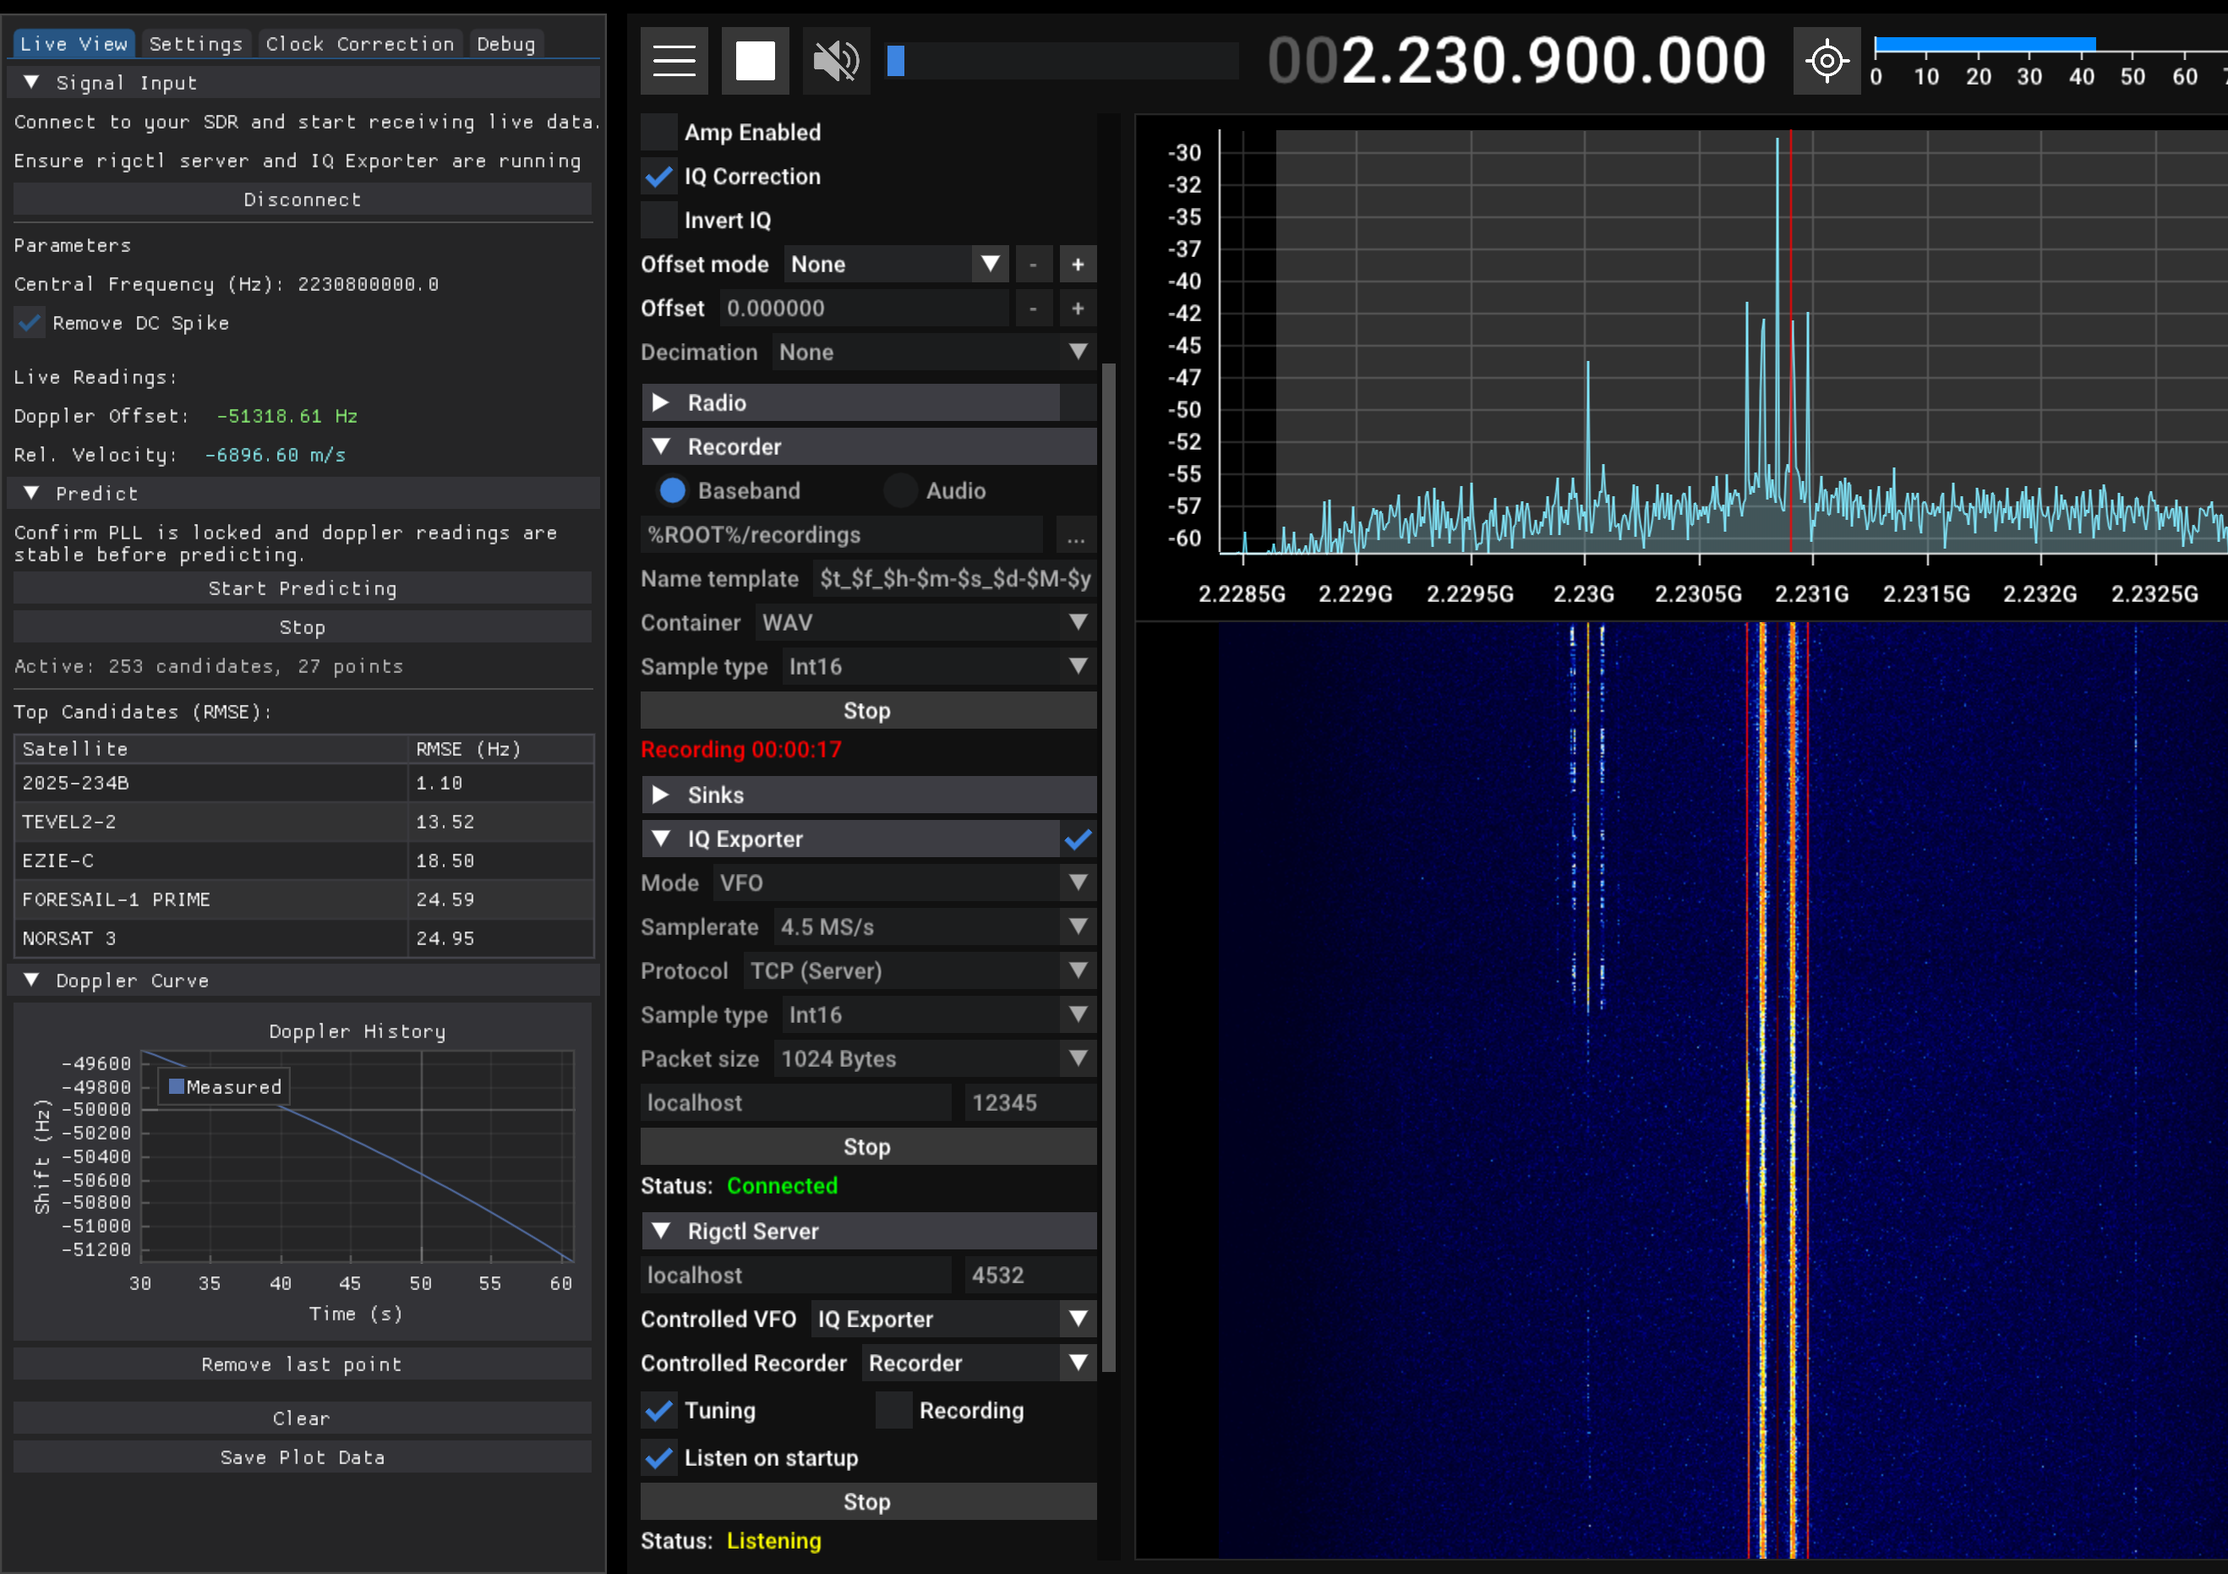
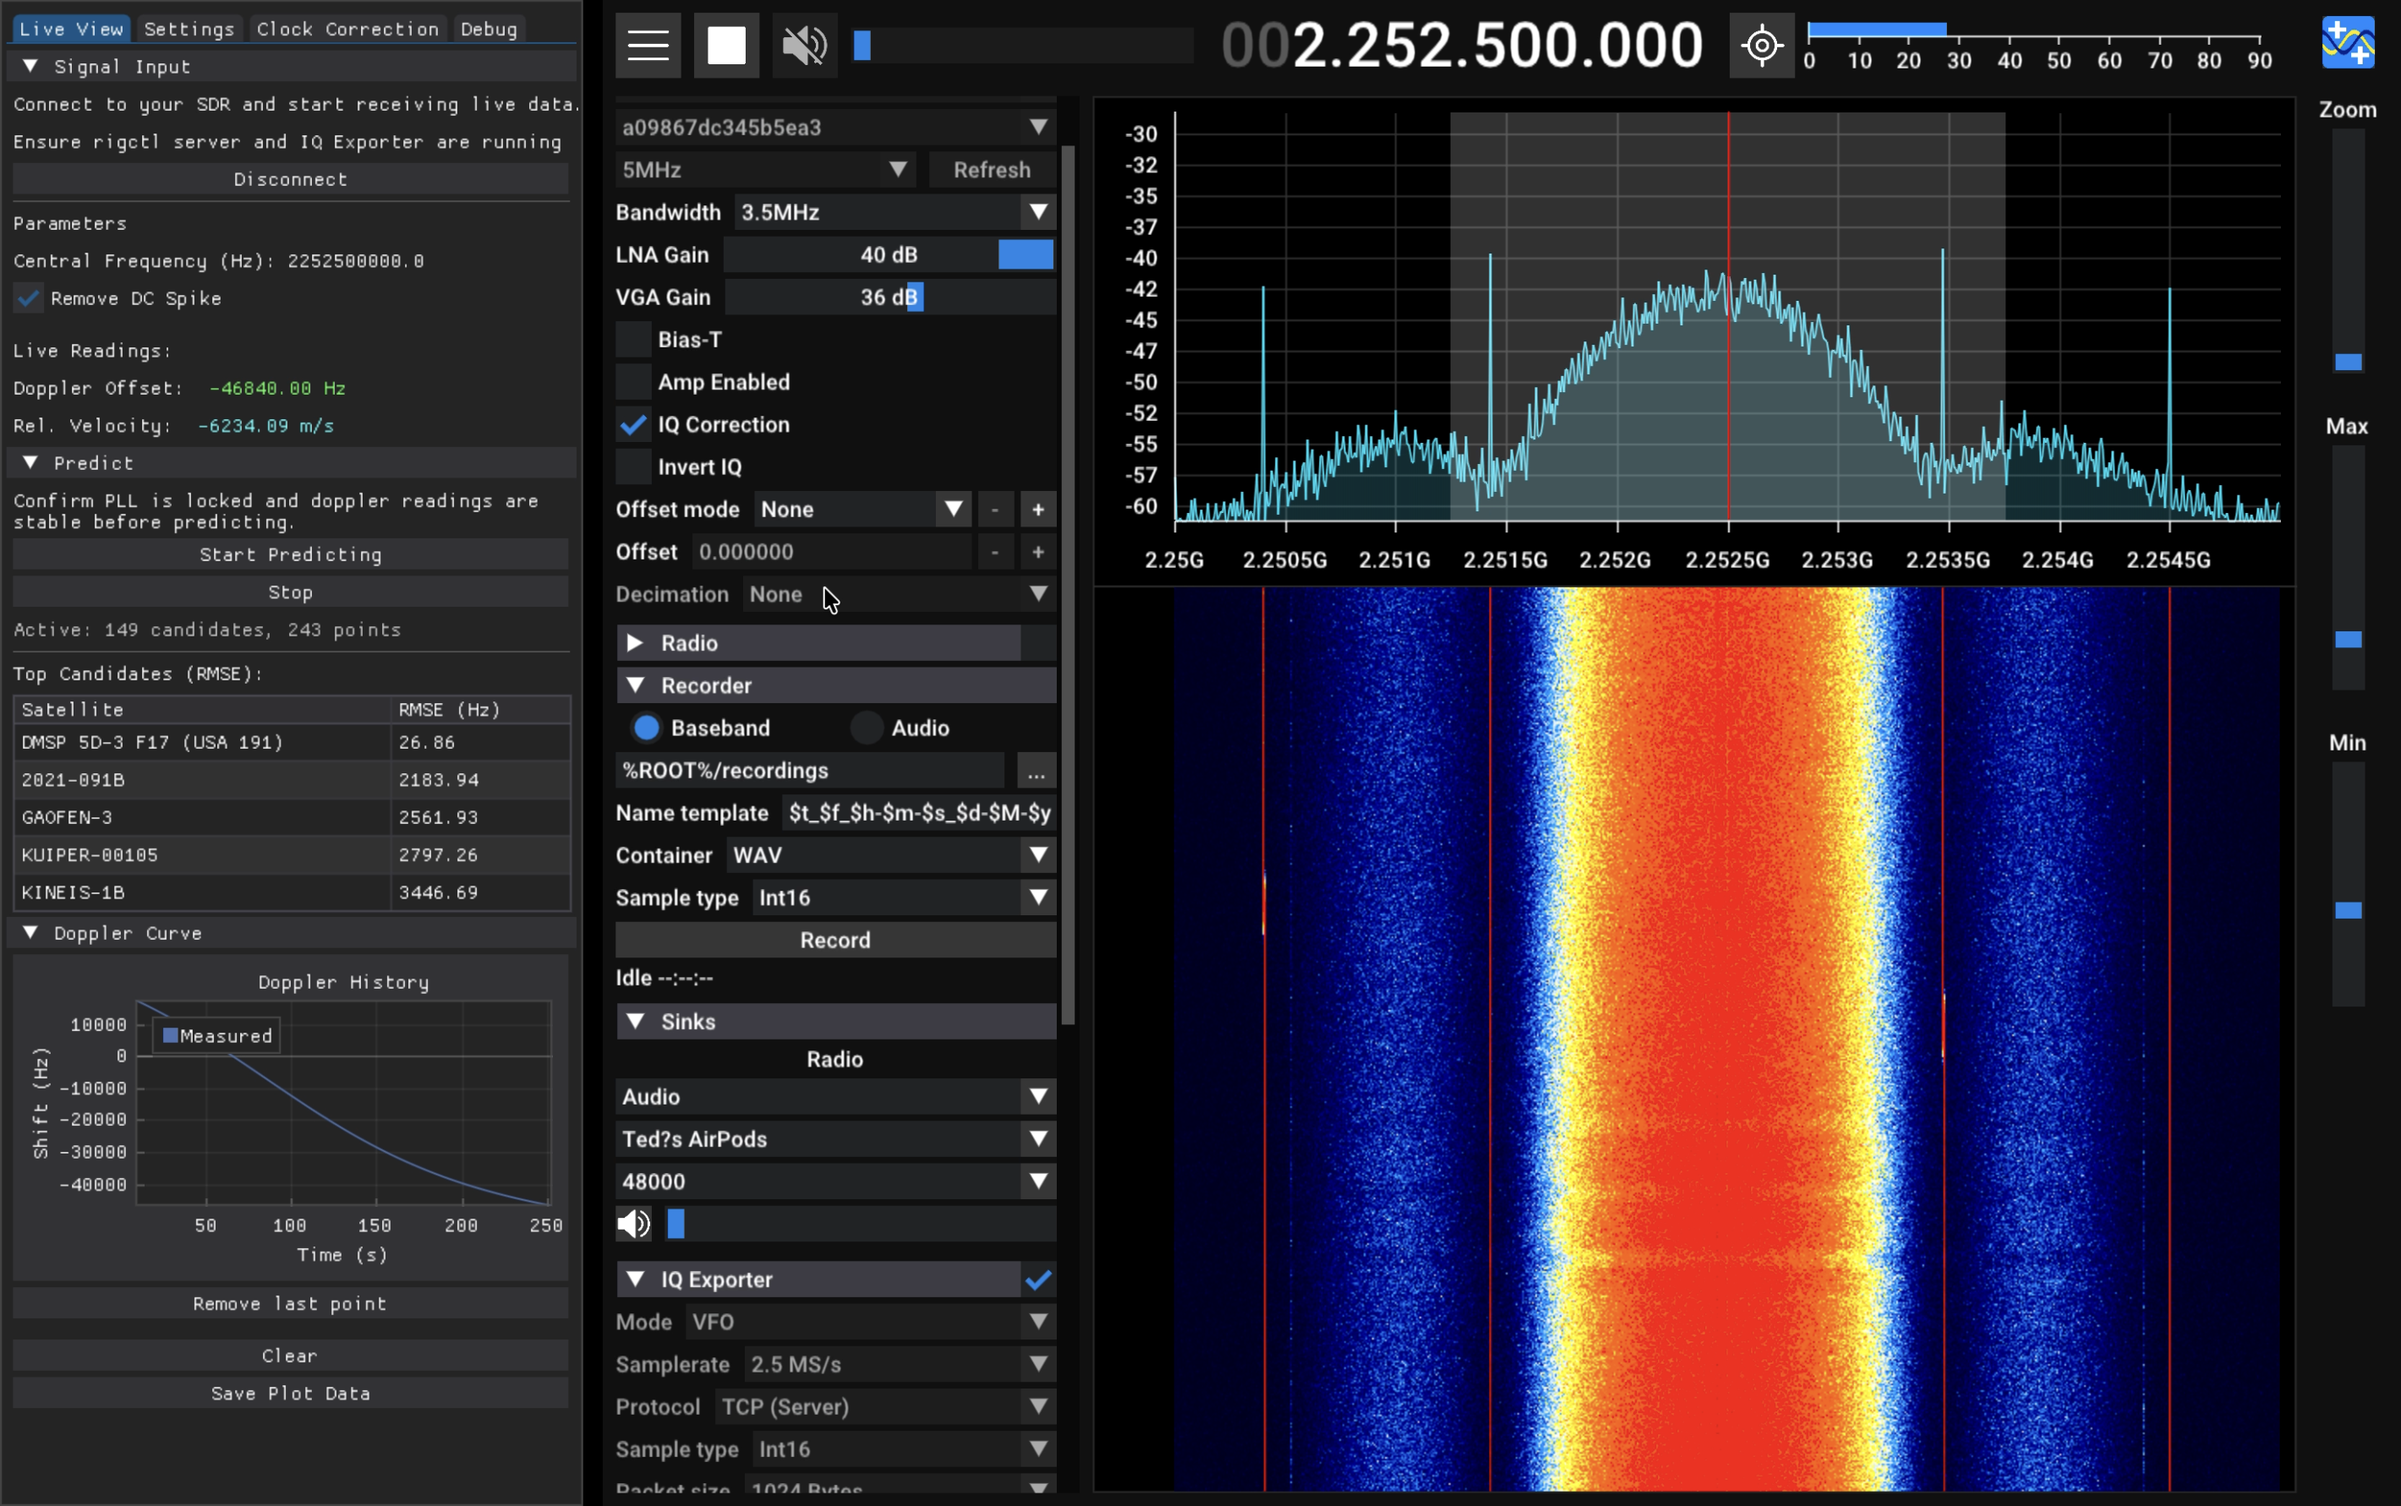
readme almost done

diff --git a/README.md b/README.md
@@ -5,6 +5,23 @@ It is designed to work in conjunction with [SDR++](https://github.com/AlexandreR
 > Note: If you are using MacOS, the IQ exporter module vital for this application to work is missing from the official builds. Build from source or download SDR++ from my [fork](https://github.com/BUSH222/SDRPlusPlus) instead.
 
 ## Table of Contents
+- [Installation](#installation)
+  - [Prerequisites](#prerequisites)
+  - [Installation](#installation-1)
+  - [Initial Configuration](#initial-configuration)
+  - [SDR++ Configuration](#sdr-configuration)
+- [Usage](#usage)
+  - [Result Interpretation](#result-interpretation)
+  - [Debugging](#debugging)
+- [Algorithm](#algorithm)
+  - [1. Signal Processing](#1-signal-processing)
+  - [2. Frequency to Relative Speed](#2-frequency-to-relative-speed)
+  - [3. Observer and Satellite Position Propagation](#3-observer-and-satellite-position-propagation)
+  - [4. Candidate Selection](#4-candidate-selection)
+  - [5. Candidate Scoring](#5-candidate-scoring)
+- [License](#license)
+- [Acknowledgements](#acknowledgements)
+- [References](#references)
 
 ## Installation
 >The application has been tested exclusively on MacOS, so issues may appear when using this on Linux, and especially Windows. Please report them in issues
@@ -57,13 +74,144 @@ RMSE <= 50: Perfect match, the prediction is very likely correct
 50 < RMSE <= 300: Good match, TLE may be slightly out of date. Check the epoch to confirm
 RMSE > 300: Bad match, the prediction is wrong or you have not updated TLEs for a long time.
 
+
 > When the program correctly predicted a satellite, the difference in RMSE between the first and second candidate is often very large, over 1000Hz for long passes.
 
+### Debugging
+Several factors might contribute to the results being nonsensical.
+#### Clock drift
+A good clock on the receiver side is essential for this application to work. A TCXO works, but an OCXO or a GPSDO are advised for better precision. 
+> Note about TCXOs: Though they are temperature compensated, shifts in temperature still affect them. Using the application while the clock is cooling down or warming up is not advised.
+
+To check if your clock is suitable:
+1. Tune to a known geostationary satellite signal or other stable reference signal (these have no Doppler shift)
+2. Enable the Clock Correction tab and click "Start Calibration"
+3. Wait for the PLL to lock (status will change from "Unlocked" to "Locked")
+4. Monitor the "Average clock drift" and "Current slope" values
+5. Check that the clock status shows "stable" (slope < 0.1 Hz/s)
+
+The calibration works by measuring the apparent frequency offset of a signal that should have zero Doppler shift. Any observed offset is attributed to clock drift in your receiver.
+
+#### TLE age
+Always update TLEs before starting an observation. TLEs get old and imprecise very quickly, leading to big errors between predicted and observed data.
+
+#### Classified TLEs
+The celestrak's API is not perfect: it omits some TLEs, such as, for example, the TLEs for the NOSS-3 series satellites. Manually add their TLEs and run the .csv through the processing tab.
+
+
 ## Algorithm
+This section will describe the algorithmic approach used in this application. 
+
+### 1. Signal processing
+The signal processing in this project is done with GNURadio, using the PLL Frequency Detector block. Here is the flowgraph:
+![Flowgraph](readme_materials/flowgraph.png)
+The flowgraph accepts 2 parameters: sample rate and whether to remove the DC spike or not. The source of this flowgraph is a TCP Source which is directly connected to the IQ Exporter in SDR++. It outputs int16, or "short" samples which are converted and scaled to complex float 32. The data then gets throttled, and the DC spike gets removed if the parameter was specified (Important for the HackRF, for example, where the PLL keeps locking onto the DC spike even with another signal present). Then comes the PLL Frequency Detector, which is running a phase locked loop with the following parameters:
+$$ Loop\ bandwidth = \frac{\pi}{10000}, \quad \omega_{\text{max}} = \frac{2\pi \cdot f_{\text{max-doppler}}}{f_s}, \quad \omega_{\text{min}} = \frac{-2\pi \cdot f_{\text{max-doppler}}}{f_s} $$
+
+The max doppler in this case is 70KHz, which allows for operation on S-band and below. Future versions of this program will have configurable max doppler bounds and the loop bandwidth.
+
+The PLL output is converted from normalized frequency to Hz:
+
+$$ f_{\text{doppler}}(t) = \frac{\omega_{\text{PLL}}(t) \cdot f_s}{2\pi} $$
+
+The signal is smoothed using a moving average filter with window size $N = 1000$ samples, then decimated to produce approximately $N$ measurements per second. These measurements are fed into a TCP Sink which enables the connection with the main application.
+
+The main application averages the data even more: It collects all the incoming data every second separates it into bins. All observations coming in at $[N-0.5, N+0.5)$, where N is an integer corresponding to a unix timestamp get averaged to eliminate most of the drift in the PLL.
+
+### 2. Frequency to relative speed
+The classic doppler shift formula is defined as
+$$f_{obs} = \frac{c + v_0}{c - v_s} \cdot f_{sat}$$
+However, this formula is cumbersome to use, so let's simplify a bit:
+$$\frac{f_{obs}}{f_{sat}} = \frac{c + v_0}{c - v_s}$$
+$$\frac{f_{obs}}{f_{sat}} = \frac{c(1 + v_0/c)}{c(1 - v_s/c)} = \frac{1 + v_0/c}{1 - v_s/c}= (1 + v_0/c)(1 - v_s/c)^{-1}$$
+This can be expressed through the binomial expansion for $ (1 + v_s/c)^{-1}$:
+$$(1 - v_s/c)^{-1} = 1 + v_s/c + (v_s/c)^2 + (v_s/c)^3 + ...$$
+After multiplying, expanding up to second order and grouping by order:
+$$\frac{f_{obs}}{f_{sat}} = (1 + v_0/c)(1 + v_s/c + (v_s/c)^2 + ...) = \\1 + v_s/c + (v_s/c)^2 + v_0/c + v_0 v_s/c^2 + ...=\\1 + \frac{v_0 + v_s}{c} + \frac{v_s^2 + v_0 v_s}{c^2} + ...$$
+We can define the relative velocity and determine that it is much less than the speed of light for earth satellite applications: $ v_{rel} = v_0+v_s << c$.
+
+*Note: Worst case scenario relative velocity here would not exceed $1.2*10^4$ m/s (earth escape velocity + rotation at equator) compared to the speed of light at $3*10^8$ m/s*
+
+Keeping only the first two terms we get:
+$$\frac{f_{obs}}{f_{sat}} \approx 1 + \frac{v_{rel}}{c}$$
+or:
+$$\boxed{v_{rel} \approx \left(\frac{f_{obs}}{f_{sat}} - 1\right) \cdot c}$$
+#### Approximation error estimation:
+The term we dropped is: $$\frac{v_s^2 + v_0 v_s}{c^2} = \frac{v_s(v_s + v_0)}{c^2} = \frac{v_s \cdot v_{rel}}{c^2}$$
+Assuming the worst case scenario at $v_{rel}=1.2*10^4$ m/s and $v_{sat}=1.12*10^4$ m/s:
+$$\text{Error} \approx \frac{1.12*10^4 \times 1.2*10^4}{(3 \times 10^8)^2} \approx 1.5 \times 10^{-9}$$
+As an example, at 2.25 GHz, the maximum expected doppler shift in our worst case scenario with the normal formula is 87484Hz, but with our approximation it is 87487Hz. An error of 3 Hz is acceptable and negligible for this application. The error caused by relativistic effects can also be ignored as the speeds are small enough for it to not matter.
+
+### 3. Observer and Satellite position propagation
+#### Satellite
+This project gets the orbital elements from [Celestrak's API](https://celestrak.org/NORAD/elements/) as TLEs meant to be propagated using SGP4. However, propagating to every observed point is computationally expensive, especially for many targets at once. This is why a different approach was needed.
+
+This project propagates using SGP4 (using skyfield) to only one point - the observation start $t_0$. 
+$$ \mathbf{r}_{\text{sat}}(t_0), \mathbf{v}_{\text{sat}}(t_0) = \text{SGP4}(\text{TLE}, t_0) $$
+
+After this, the orbit is propagated using F&G functions
+$$ \mathbf{r}(t + \Delta t) = f \mathbf{r}(t) + g \mathbf{v}(t) $$
+$$ \mathbf{v}(t + \Delta t) = \dot{f} \mathbf{r}(t) + \dot{g} \mathbf{v}(t) $$
+
+where the coefficients are computed by solving Kepler's equation via Newton-Raphson iteration:
+
+$$n\Delta t =\Delta E - (1 - \frac{r_0}{a})\sin(\Delta E) + \frac{\mathbf{r}_0 \cdot \mathbf{v}_0}{\sqrt{\mu a}}(1 - \cos(\Delta E))$$
+
+with $a$ being the semi-major axis, $n = \sqrt{\mu/a^3}$ the mean motion, and $\mu = 3.986004418 \times 10^5 km^3/s^2$ the Earth's gravitational parameter.
+
+#### Observer
+The calculation of the Observer's position is similar in approach: It calculates 1 precise value, accounting for Earth's gyroscopic precession and nutation using skyfield, and then simply rotating the earth for all other points: 
+
+
+The GCRS position at time $t = t_0 + \Delta t$ is:
+$$ \mathbf{r}_{\text{obs}}(t) = \mathbf{R}_z(\omega_{\oplus} \Delta t) \mathbf{R}_{\text{ITRS}\to\text{GCRS}}(t_0) \mathbf{r}_{\text{ITRS}} $$
+
+where $\omega_{\oplus} = 7.2921150 \times 10^{-5}$ rad/s is Earth's rotation rate, and the observer velocity is:
+
+$$ \mathbf{v}_{\text{obs}} = \boldsymbol{\omega}_{\oplus} \times \mathbf{r}_{\text{obs}} = \begin{bmatrix} -\omega_{\oplus} y \\ \omega_{\oplus} x \\ 0 \end{bmatrix} $$
+
+All the simplified models can be replaced with more precise but computationally intensive models in the processing tab, but it usually does not yield better results.
+### 4. Candidate selection
+Celestrak's API currently provides 15000 TLEs for different satellites. Even with all the optimizations described above, propagating all these TLEs will take way too long. So, to reduce computational load some filters are applied. All of these filters are toggleable in application settings.
+
+1. **Geostationary Filter:** Reject satellites with $n < 6$ revolutions per day. This project focuses on LEO and MEO satellites, with clearly observable doppler shift over short periods of time to mitigate the SDR receiver's clock drifting.
+2. **HEO Filter:** Reject satellites with eccentricity $e > 0.25$ (optional)
+3. **Visibility Filter:** Require elevation angle at $t_0$ $\theta_{\text{el}} > \theta_{\text{min}}$ (default 0°)
+4. **Constellation Filter:** Exclude specified mega-constellations (e.g., Starlink, OneWeb). This filter alone eliminates 2/3 of the satellites provided by celestrak.
+5. **Doppler Pre-filter:** Reject if $|\Delta f_{\text{predicted}}(t_0) - \Delta f_{\text{observed}}(t_0)| > \epsilon$ (default threshold $\epsilon = 10000$ Hz). This helps eliminate descending satellites when the target is ascending, for example. However, if the tuning is imprecise this filter can accidentally cut the target.
+
+### 5. Candidate Scoring
+
+For each candidate satellite passing the filters, the algorithm computes predicted Doppler shifts at all measurement times and scores the match using normalized Root Mean Square Error (RMSE).
+
+**Normalization:**
+To account for unknown transmitter frequency and the transmitter and receiver clock drift, both observed and predicted frequencies are mean-centered:
+
+$$ \tilde{f}_{\text{obs},i} = f_{\text{obs},i} - \bar{f}_{\text{obs}} $$
+$$ \tilde{f}_{\text{pred},i} = f_{\text{pred},i} - \bar{f}_{\text{pred}} $$
+
+**RMSE Calculation:**
+
+$$ \text{RMSE} = \sqrt{\frac{1}{N}\sum_{i=1}^{N} (\tilde{f}_{\text{obs},i} - \tilde{f}_{\text{pred},i})^2} $$
+
+Candidates are ranked by ascending RMSE. The top candidate is the most likely match.
 
 ## License
 [MIT License](LICENSE)
 
 ## Acknowledgements
 
+This project relies on several excellent tools and libraries:
+
+- [Skyfield](https://rhodesmill.org/skyfield/) - Elegant astronomy library for satellite position computation and coordinate transformations
+- [SGP4](https://pypi.org/project/sgp4/) - Python implementation of the SGP4 satellite propagation algorithm
+- [GNU Radio](https://www.gnuradio.org/) - Software defined radio framework for signal processing
+- [DearPyGui](https://github.com/hoffstadt/DearPyGui) - Fast and powerful Python GUI framework
+- [SDR++](https://github.com/AlexandreRouma/SDRPlusPlus) - Cross-platform SDR software
+- [CelesTrak](https://celestrak.org/) - Comprehensive source of orbital element data maintained by Dr. T.S. Kelso
+
+Special thanks to the amateur radio and satellite reception communities for their invaluable resources and knowledge sharing.
+
+
 ## References
+todo
